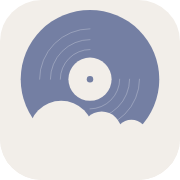
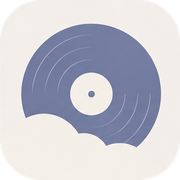
부팅 화면·앱 아이콘을 피그마 로고 시트의 실제 그래픽으로 교체
Claude-Session: https://claude.ai/code/session_01LzPkHf6Z6uQz2bMBL8nDWo

diff --git a/src/Logo.tsx b/src/Logo.tsx
@@ -1,65 +1,17 @@
-/** Blue Vinyl 로고. 앱 아이콘(구름 + LP)과 LP 심볼(원판만) */
+/** Blue Vinyl 로고 — 피그마의 로고 시트에서 잘라낸 이미지를 그대로 쓴다. */
+const base = import.meta.env.BASE_URL
 
-interface IconProps {
-  size?: number
-  /** 'light' 크림 배경 / 'dark' 연보라 배경 */
-  tone?: 'light' | 'dark'
-  rounded?: boolean
+/** 앱 아이콘 (둥근 모서리 포함) */
+export function BlueVinylIcon({ size = 120 }: { size?: number; tone?: 'light' | 'dark'; rounded?: boolean }) {
+  return <img src={`${base}img/bv-icon.png`} width={size} height={size} alt="Blue Vinyl" draggable={false} style={{ display: 'block' }} />
 }
 
-export function BlueVinylIcon({ size = 120, tone = 'light', rounded = true }: IconProps) {
-  const dark = tone === 'dark'
-  const bg = dark ? '#c6c7e0' : '#f2eee9'
-  const disc = dark ? '#4f5a82' : '#747fa3'
-  const cream = dark ? '#f4ebdc' : '#f2eee9'
-  const id = `bvi-${tone}`
-  return (
-    <svg viewBox="0 0 200 200" width={size} height={size} role="img" aria-label="Blue Vinyl" style={{ display: 'block' }}>
-      <defs>
-        <clipPath id={id}>
-          <rect width="200" height="200" rx={rounded ? 46 : 0} />
-        </clipPath>
-      </defs>
-      <g clipPath={`url(#${id})`}>
-        <rect width="200" height="200" fill={bg} />
-        <circle cx="100" cy="88" r="77" fill={disc} />
-        <g fill="none" stroke="rgba(255,255,255,0.32)" strokeWidth="0.9" strokeLinecap="round">
-          <path d="M44 88 A56 56 0 0 1 100 32" />
-          <path d="M56 88 A44 44 0 0 1 100 44" />
-          <path d="M67 88 A33 33 0 0 1 100 55" />
-          <path d="M133 88 A33 33 0 0 1 100 121" />
-          <path d="M144 88 A44 44 0 0 1 100 132" />
-          <path d="M155 88 A55 55 0 0 1 100 143" />
-        </g>
-        <circle cx="100" cy="88" r="24" fill={cream} />
-        <circle cx="100" cy="88" r="3.6" fill={disc} />
-        {/* 구름 */}
-        <g fill={cream}>
-          <circle cx="68" cy="148" r="36" />
-          <circle cx="113" cy="146" r="22" />
-          <circle cx="146" cy="151" r="18" />
-          <rect x="0" y="146" width="200" height="60" />
-        </g>
-      </g>
-    </svg>
-  )
+/** LP 심볼 (원판) */
+export function BlueVinylDisc({ size = 100 }: { size?: number; color?: string; label?: string }) {
+  return <img src={`${base}img/bv-disc.png`} height={size} alt="" draggable={false} style={{ display: 'block', height: size, width: 'auto' }} />
 }
 
-/** LP 원판만 (스플래시, 로고 락업) */
-export function BlueVinylDisc({ size = 100, color = '#7378b0', label = '#f4efe6' }: { size?: number; color?: string; label?: string }) {
-  return (
-    <svg viewBox="0 0 100 100" width={size} height={size} aria-hidden style={{ display: 'block' }}>
-      <circle cx="50" cy="50" r="49" fill={color} />
-      <g fill="none" stroke="rgba(255,255,255,0.32)" strokeWidth="0.7" strokeLinecap="round">
-        <path d="M17 50 A33 33 0 0 1 50 17" />
-        <path d="M26 50 A24 24 0 0 1 50 26" />
-        <path d="M34 50 A16 16 0 0 1 50 34" />
-        <path d="M66 50 A16 16 0 0 1 50 66" />
-        <path d="M74 50 A24 24 0 0 1 50 74" />
-        <path d="M83 50 A33 33 0 0 1 50 83" />
-      </g>
-      <circle cx="50" cy="50" r="15" fill={label} />
-      <circle cx="50" cy="50" r="2.2" fill={color} />
-    </svg>
-  )
+/** "Blue Vinyl" 글자 로고 */
+export function BlueVinylWord({ height = 50 }: { height?: number }) {
+  return <img src={`${base}img/bv-word.png`} alt="Blue Vinyl" draggable={false} style={{ display: 'block', height, width: 'auto' }} />
 }

diff --git a/src/flow.css b/src/flow.css
@@ -2918,7 +2918,7 @@
 .bt-ic{width:60px;height:60px;border-radius:14px;display:grid;place-items:center;font-size:26px;color:rgba(255,255,255,.92);box-shadow:0 1px 3px rgba(0,0,0,.18)}
 .bt-app:nth-child(2) .bt-ic{color:#d44}
 .bt-bv{cursor:pointer;animation:bt-hint 2.4s ease-in-out 1.2s infinite}
-.bt-ic-bv{padding:0;overflow:hidden;background:none}
+.bt-ic-bv{padding:0;overflow:hidden;background:none;box-shadow:none}
 @keyframes bt-hint{0%,100%{transform:scale(1)}50%{transform:scale(1.07)}}
 .bt-dots{position:absolute;bottom:128px;left:0;right:0;display:flex;justify-content:center;gap:8px}
 .bt-dots i{width:7px;height:7px;border-radius:50%;background:rgba(255,255,255,.4)}
@@ -2932,16 +2932,16 @@
 .bt-zoom svg{width:100%;height:100%}
 @keyframes bt-zoom{to{top:0;left:0;width:100%;height:100%;border-radius:0}}
 
-.bt-splash{background:#f2eee9;animation:bt-bg 4.3s ease forwards;display:grid;place-items:center}
-@keyframes bt-bg{0%,12%{background:#c9cbe6}38%,100%{background:#f2eee9}}
+.bt-splash{background:#fefefe;animation:bt-bg 4.3s ease forwards;display:grid;place-items:center}
+@keyframes bt-bg{0%,12%{background:#747fa3}38%,100%{background:#fefefe}}
 .bt-splash{animation:bt-bg 4.3s ease forwards,bt-out .5s ease 3.8s forwards}
 @keyframes bt-out{to{opacity:0}}
 .bt-lock{display:flex;align-items:center;gap:0}
 .bt-disc{opacity:0;transform:scale(.6) rotate(-120deg);animation:bt-disc 1.1s cubic-bezier(.2,.8,.2,1) .7s forwards}
 @keyframes bt-disc{to{opacity:1;transform:scale(1) rotate(0)}}
 .bt-word{overflow:hidden;max-width:0;animation:bt-word 1s cubic-bezier(.3,.7,.2,1) 1.9s forwards;white-space:nowrap}
-.bt-word span{display:block;padding-left:12px;font-family:'Lora',serif;font-style:italic;font-weight:500;font-size:34px;color:#262d4b;letter-spacing:.01em;opacity:0;transform:translateX(-20px);animation:bt-wtxt 1s ease 1.9s forwards}
-@keyframes bt-word{to{max-width:220px}}
+.bt-word span{display:block;padding-left:14px;opacity:0;transform:translateX(-20px);animation:bt-wtxt 1s ease 1.9s forwards}
+@keyframes bt-word{to{max-width:240px}}
 @keyframes bt-wtxt{to{opacity:1;transform:none}}
 
 /* ===== 소포 (팀 웹 프로토타입 디자인 이식) ===== */
@@ -2970,3 +2970,5 @@
 .h-parcel.open .pc-tw { animation: hp-tape .4s ease-in both; }
 .r-parcel.open .pc-tw { animation: hp-tape .4s ease-in both; }
 .h-parcel.open .pc-wrap { animation: hp-lid .7s .35s ease-in both; }
+.bt-zoom img{width:100%;height:100%;object-fit:cover}
+.bt-zoom{background:transparent}

diff --git a/src/screens/Boot.tsx b/src/screens/Boot.tsx
@@ -1,5 +1,5 @@
 import { useEffect, useState } from 'react'
-import { BlueVinylDisc, BlueVinylIcon } from '../Logo'
+import { BlueVinylDisc, BlueVinylIcon, BlueVinylWord } from '../Logo'
 
 /** 가짜 홈 화면 아이콘 (실제 앱 아이콘 대신 단순한 자체 도형) */
 const APPS: { name: string; c: string; g: string }[] = [
@@ -49,10 +49,10 @@ export default function Boot({ children }: { children: React.ReactNode }) {
             <div className="bt-splash">
               <div className="bt-lock">
                 <div className="bt-disc">
-                  <BlueVinylDisc size={86} color="#7378b0" label="#f4efe6" />
+                  <BlueVinylDisc size={92} />
                 </div>
                 <div className="bt-word">
-                  <span>Blue Vinyl</span>
+                  <span><BlueVinylWord height={50} /></span>
                 </div>
               </div>
             </div>
@@ -91,7 +91,7 @@ export default function Boot({ children }: { children: React.ReactNode }) {
                 ))}
               </div>
               {stage === 'opening' && (
-                <div className="bt-zoom"><BlueVinylIcon size={60} rounded={false} /></div>
+                <div className="bt-zoom"><BlueVinylIcon size={60} /></div>
               )}
             </div>
           )}

diff --git a/index.html b/index.html
@@ -2,7 +2,7 @@
 <html lang="ko">
   <head>
     <meta charset="UTF-8" />
-    <link rel="icon" type="image/svg+xml" href="./icon.svg" />
+    <link rel="icon" type="image/png" href="./icon-192.png" />
     <link rel="apple-touch-icon" href="./icon-180.png" />
     <link rel="manifest" href="./manifest.webmanifest" />
     <meta
